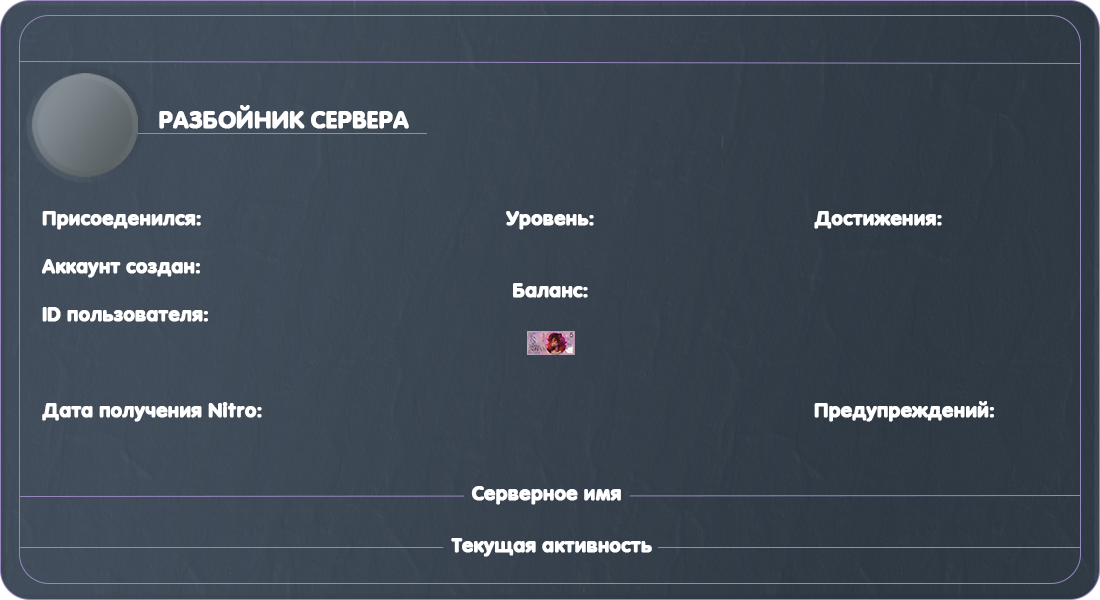
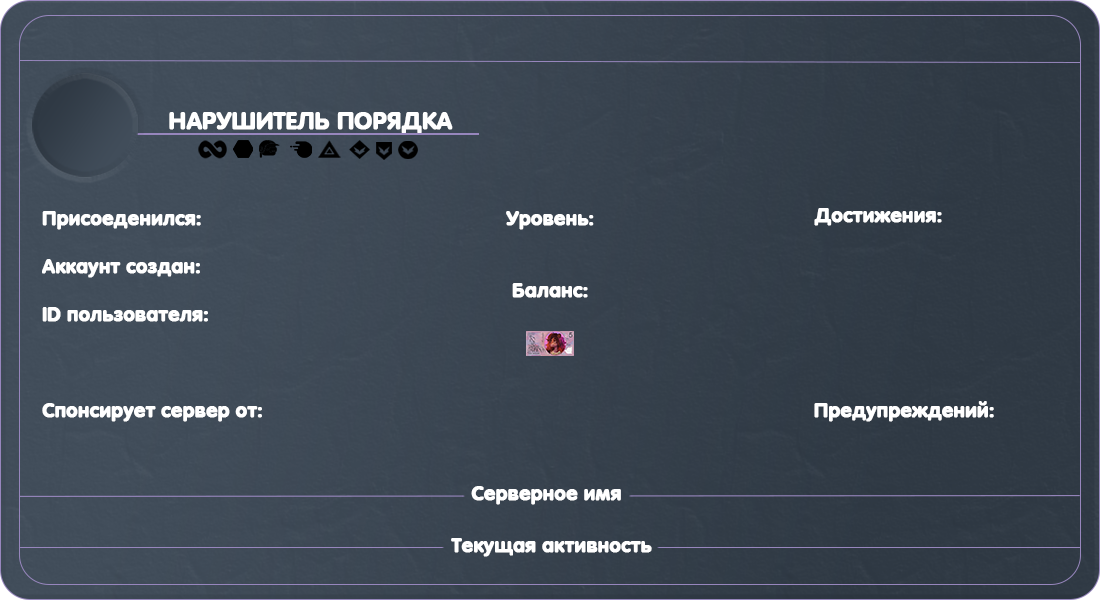
user_passports badges update

diff --git a/cogs/development/user_passport.py b/cogs/development/user_passport.py
@@ -31,6 +31,43 @@ class UserPassportCog(commands.Cog):
         # start_time = time.time()
         member = ctx.author
         warns = client.YukkiModeration.WarnCollection.find_one({"_id": member.id})
+        flags = member.public_flags
+
+        def is_hs_balance():
+            if flags.hypesquad_balance:
+                return "./pillow/badges/hs_balance.png"
+            else:
+                return "./pillow/badges/none_badge.png"
+
+        def is_hs_brilliance():
+            if flags.hypesquad_brilliance:
+                return "./pillow/badges/hs_brilliance.png"
+            else:
+                return "./pillow/badges/none_badge.png"
+
+        def is_hs_bravery():
+            if flags.hypesquad_bravery:
+                return "./pillow/badges/hs_bravery.png"
+            else:
+                return "./pillow/badges/none_badge.png"
+
+        def is_partner():
+            if flags.partner:
+                return "./pillow/badges/partner.png"
+            else:
+                return "./pillow/badges/none_badge.png"
+
+        def is_supporter():
+            if flags.early_supporter:
+                return "./pillow/badges/supporter.png"
+            else:
+                return "./pillow/badges/none_badge.png"
+
+        def is_bot_developer():
+            if flags.verified_bot_developer or flags.early_verified_bot_developer:
+                return "./pillow/badges/dev.png"
+            else:
+                return "./pillow/badges/none_badge.png"
 
         def is_warn():
             if warns:
@@ -42,7 +79,7 @@ class UserPassportCog(commands.Cog):
             if member.premium_since:
                 return f'{member.premium_since.strftime("%d/%m/%Y")}'
             else:
-                return 'Подписка отсутствует'
+                return 'Не спонсирует'
 
         def is_nick():
             if member.nick:
@@ -108,67 +145,113 @@ class UserPassportCog(commands.Cog):
             else:
                 return "./pillow/profiles/member_profile.png"
 
-        url = str(member.avatar_url)[:-10]
-        url = requests.get(url, stream=True)
-        avatar = Image.open(io.BytesIO(url.content))
-
-        ico = str(ctx.guild.icon_url)[:-10]
-        ico = requests.get(ico, stream=True)
-        server_icon = Image.open(io.BytesIO(ico.content))
-
-        img_source = checkTopRole()
-
-        welcome = Image.open(img_source)
-        welcome = welcome.convert('RGBA')
+        # Автарка пользователя
+        avatar_url = str(member.avatar_url)[:-10]
+        avatar_url = requests.get(avatar_url, stream=True)
+        avatar = Image.open(io.BytesIO(avatar_url.content))
         avatar = avatar.convert('RGBA')
-
-        server_icon = server_icon.convert('RGBA')
-        # Размер аватарки
+        # Размер аватара
         avatar = avatar.resize((90, 90))
+
+        # Серверная иконка
+        icon_url = str(ctx.guild.icon_url)[:-10]
+        icon_url = requests.get(icon_url, stream=True)
+        server_icon = Image.open(io.BytesIO(icon_url.content))
+        server_icon = server_icon.convert('RGBA')
+        # Размер иконки
         server_icon = server_icon.resize((50, 50))
-        # Маска
-        mask = Image.new('L', (250, 230), 0)
+
+        # Значки профиля
+        hs_balance_url = is_hs_balance()
+        hs_balance = Image.open(hs_balance_url)
+        hs_balance = hs_balance.convert('RGBA')
+        draw_hs_balance = ImageDraw.Draw(hs_balance)
+
+        hs_brilliance_url = is_hs_brilliance()
+        hs_brilliance = Image.open(hs_brilliance_url)
+        hs_brilliance = hs_brilliance.convert('RGBA')
+        draw_hs_brilliance = ImageDraw.Draw(hs_brilliance)
+
+        hs_bravery_url = is_hs_bravery()
+        hs_bravery = Image.open(hs_bravery_url)
+        hs_bravery = hs_bravery.convert('RGBA')
+        draw_hs_bravery = ImageDraw.Draw(hs_bravery)
+
+        partner_url = is_partner()
+        partner = Image.open(partner_url)
+        partner = partner.convert('RGBA')
+        draw_partner = ImageDraw.Draw(partner)
+
+        supporter_url = is_supporter()
+        supporter = Image.open(supporter_url)
+        supporter = supporter.convert('RGBA')
+        draw_supporter = ImageDraw.Draw(supporter)
+
+        bot_developer_url = is_bot_developer()
+        bot_developer = Image.open(bot_developer_url)
+        bot_developer = bot_developer.convert('RGBA')
+        draw_bot_developer = ImageDraw.Draw(bot_developer)
+
+        # Фон профиля
+        background_url = checkTopRole()
+        background = Image.open(background_url)
+        background = background.convert('RGBA')
+
+        # Маска и отрисовка
+        # Аватар
+        avatar_mask = Image.new('L', (250, 230), 0)
+        draw_avatar = ImageDraw.Draw(avatar_mask)
+        draw_avatar.ellipse((0, 0) + (250, 230), fill=255)
+        avatar_mask = avatar_mask.resize((90, 90))
+        avatar.putalpha(avatar_mask)
+        # Иконка
         ico_mask = Image.new('L', (250, 250), 0)
-        draw = ImageDraw.Draw(mask)
         draw_ico = ImageDraw.Draw(ico_mask)
-        idraw = ImageDraw.Draw(welcome)
+        draw_ico.ellipse((0, 0) + (150, 150), fill=255)
+        ico_mask = ico_mask.resize((50, 50))
+        server_icon.putalpha(ico_mask)
+
+        draw_background = ImageDraw.Draw(background)
 
         # Шрифты
         headline_username = ImageFont.truetype(r".\pillow\fonts\VAG World.otf", size=25)
         headline_copyright = ImageFont.truetype(r".\pillow\fonts\BlenderPro-Book.ttf", size=25)
         other = ImageFont.truetype(r".\pillow\fonts\Slot Cyrillic.ttf", size=23)
         actvity = ImageFont.truetype(r".\pillow\fonts\Slot Cyrillic.ttf", size=21)
-        # Тексты
-        text_username = idraw.text((312, 48), f'{member.name}#{member.discriminator}', anchor="ms",
-                                   font=headline_username, fill='#FFFFFF')
-        text_copyright = idraw.text((950, 48), f'{ctx.guild.name}', anchor="ms", font=headline_copyright,
-                                    fill='#FFFFFF')
-        text_nitro = idraw.text((147, 447), f'{is_nitro()}', anchor="ms", font=other, fill="#FFFFFF")
-        text_joined = idraw.text((115, 252), f'{member.joined_at.strftime("%d/%m/%Y")}', anchor="ms", font=other,
-                                 fill="#FFFFFF")
-        text_account_registered = idraw.text((115, 300), f'{member.created_at.strftime("%d/%m/%Y")}', anchor="ms",
-                                             font=other, fill="#FFFFFF")
-        text_id = idraw.text((123, 350), f'{member.id}', anchor="ms", font=other, fill="#FFFFFF")
-        text_nick = idraw.text((550, 527), f'{is_nick()}', anchor="ms", font=other, fill="#FFFFFF")
-        text_activity = idraw.text((550, 575), f'{is_activity()}', anchor="ms", font=actvity, fill="#FFFFFF")
-        text_warns = idraw.text((905, 447), f"{is_warn()} / 5", anchor="ms", font=actvity, fill="#FFFFFF")
 
-        # Маска для картинки
-        draw.ellipse((0, 0) + (250, 230), fill=255)
-        draw_ico.ellipse((0, 0) + (150, 150), fill=255)
-        # Изменять вместе с размером аватарки
-        mask = mask.resize((90, 90))
-        ico_mask = ico_mask.resize((50, 50))
-        avatar.putalpha(mask)
-        server_icon.putalpha(ico_mask)
-        # Размер заднего фона (картинки)
-        welcome = welcome.resize((1100, 600))
-        # Размещение аватара на фоне
-        welcome.paste(avatar, (40, 80), avatar)
-        welcome.paste(server_icon, (820, 28), server_icon)
-        # Сохранение картинки из буфера
+        # Тексты
+        text_username = draw_background.text((312, 48), f'{member.name}#{member.discriminator}', anchor="ms",
+                                             font=headline_username, fill='#FFFFFF')
+        text_copyright = draw_background.text((950, 48), f'{ctx.guild.name}', anchor="ms", font=headline_copyright,
+                                              fill='#FFFFFF')
+        text_nitro = draw_background.text((147, 447), f'{is_nitro()}', anchor="ms", font=other, fill="#FFFFFF")
+        text_joined = draw_background.text((115, 252), f'{member.joined_at.strftime("%d/%m/%Y")}', anchor="ms",
+                                           font=other,
+                                           fill="#FFFFFF")
+        text_account_registered = draw_background.text((115, 300), f'{member.created_at.strftime("%d/%m/%Y")}',
+                                                       anchor="ms",
+                                                       font=other, fill="#FFFFFF")
+        text_id = draw_background.text((123, 350), f'{member.id}', anchor="ms", font=other, fill="#FFFFFF")
+        text_nick = draw_background.text((550, 527), f'{is_nick()}', anchor="ms", font=other, fill="#FFFFFF")
+        text_activity = draw_background.text((550, 575), f'{is_activity()}', anchor="ms", font=actvity, fill="#FFFFFF")
+        text_warns = draw_background.text((905, 447), f"{is_warn()} / 5", anchor="ms", font=actvity, fill="#FFFFFF")
+
+        background = background.resize((1100, 600))
+
+        # Размещение элементов
+        background.paste(avatar, (40, 80), avatar)
+        background.paste(server_icon, (820, 28), server_icon)
+        # РАЗМЕЩЕНИЕ ЗНАЧКОВ
+        background.paste(partner, (198, 140), partner)
+        background.paste(bot_developer, (233, 140), bot_developer)
+        background.paste(supporter, (259, 140), supporter)
+        background.paste(hs_balance, (348, 140), hs_balance)
+        background.paste(hs_bravery, (376, 141), hs_bravery)
+        background.paste(hs_brilliance, (398, 141), hs_brilliance)
+
+        # Сохранение картинки в буфер обмена
         _buffer = io.BytesIO()
-        welcome.save(_buffer, "png", quality=95)
+        background.save(_buffer, "png", quality=95)
         _buffer.seek(0)
 
         if member.id == 679691974663733363:

diff --git a/cogs/debug/member_info.py b/cogs/debug/member_info.py
@@ -31,7 +31,7 @@ class MemberActivityCog(commands.Cog):
 
         def isnitro():
             if member.premium_since:
-                return f'{member.premium_since.strftime("%d/%m/%Y")}'
+                return f'{member.premium.strftime("%d/%m/%Y")}'
             else:
                 return 'Подписка отсутствует'
 
